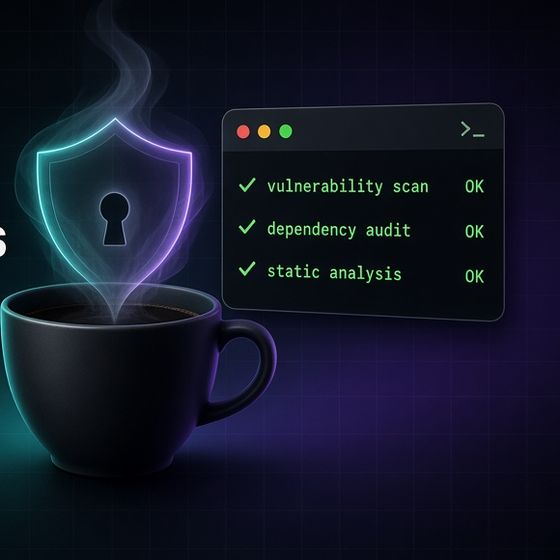
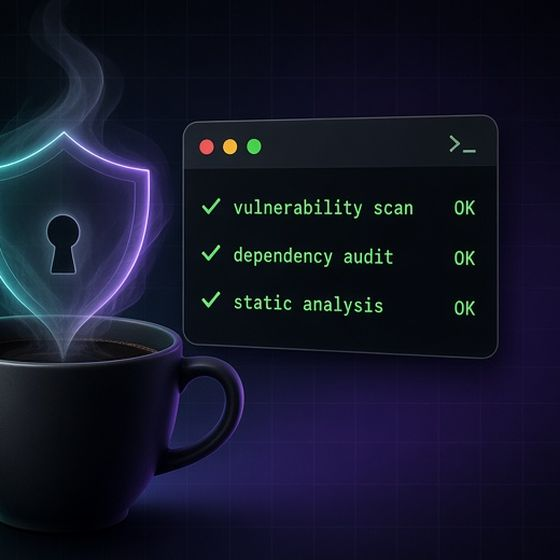
docs: make support button stand out

Changed region(s): [[0.0, 0.0607, 0.9107, 0.9107]]

diff --git a/docs/style.css b/docs/style.css
@@ -287,3 +287,9 @@ ul.tools.tools-flag{grid-template-columns:minmax(0,1fr);gap:14px}
 .sup-fine{margin:12px 0 0;font-size:12.5px;color:var(--muted)}
 .sup-img{display:block;width:100%;height:220px;object-fit:cover;object-position:50% 45%;-webkit-mask-image:linear-gradient(180deg,transparent,#000 35%);mask-image:linear-gradient(180deg,transparent,#000 35%)}
 @media (min-width:860px){.sup-card{grid-template-columns:minmax(0,1.25fr) minmax(0,.75fr)}.sup-img{height:100%;min-height:340px;-webkit-mask-image:linear-gradient(90deg,transparent,#000 40%);mask-image:linear-gradient(90deg,transparent,#000 40%)}}
+
+.sup-nav,.btn.sup-btn{color:#fff;background:#d62f33;border:1px solid #d62f33;box-shadow:0 6px 22px -8px rgba(229,56,59,.75)}
+.sup-nav .ic,.btn.sup-btn .ic{color:#fff}
+.sup-nav:hover,.btn.sup-btn:hover{color:#fff;background:#b4282b;border-color:#b4282b;box-shadow:0 10px 30px -8px rgba(229,56,59,.9)}
+.sup-nav:focus-visible,.btn.sup-btn:focus-visible{outline:2px solid #fff;outline-offset:3px;box-shadow:0 0 0 6px rgba(229,56,59,.45)}
+.btn.sup-btn{font-weight:600}
